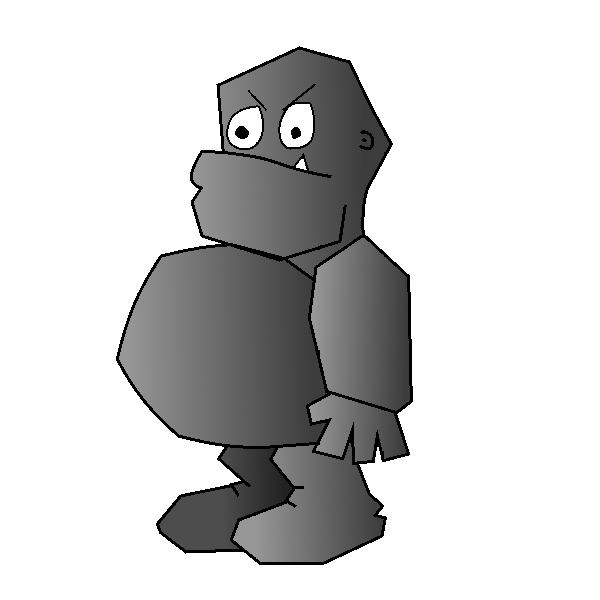
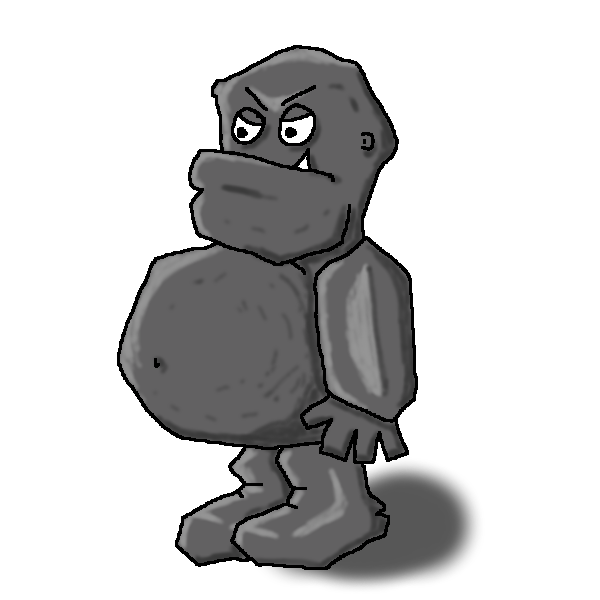
better stone_troll

Changed region(s): [[0.18, 0.06, 0.81, 0.99]]

diff --git a/game.css b/game.css
@@ -95,7 +95,7 @@ body {
   background-size: cover;
   z-index: 2;
   position: absolute;
-  top: -20%;
+  top: -10%;
   left:20%;
 }
 
